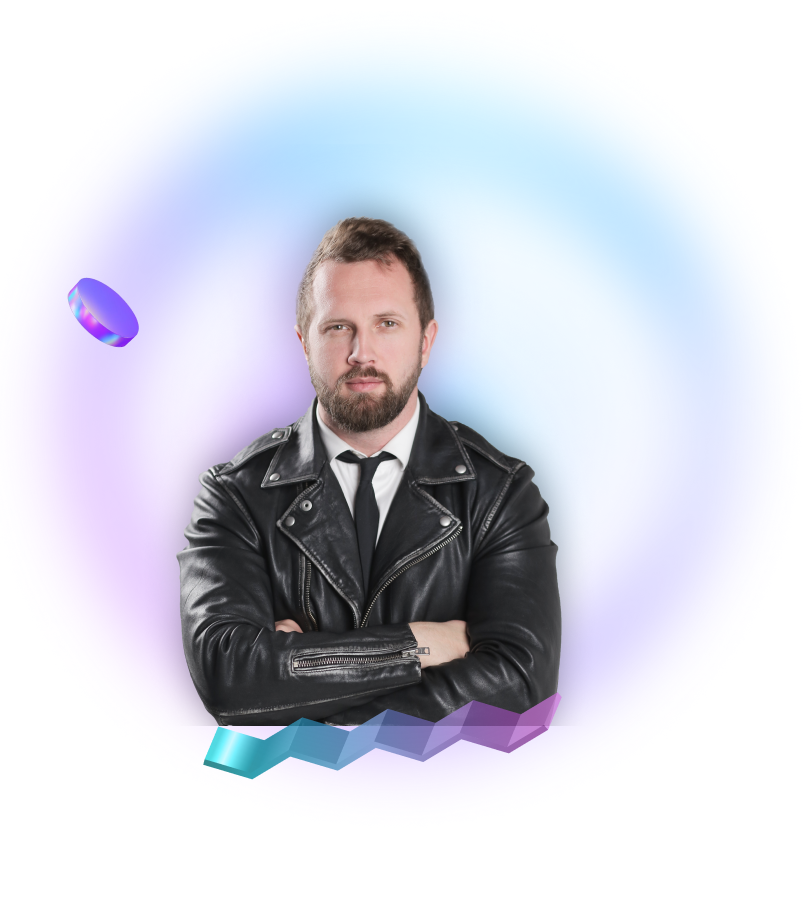
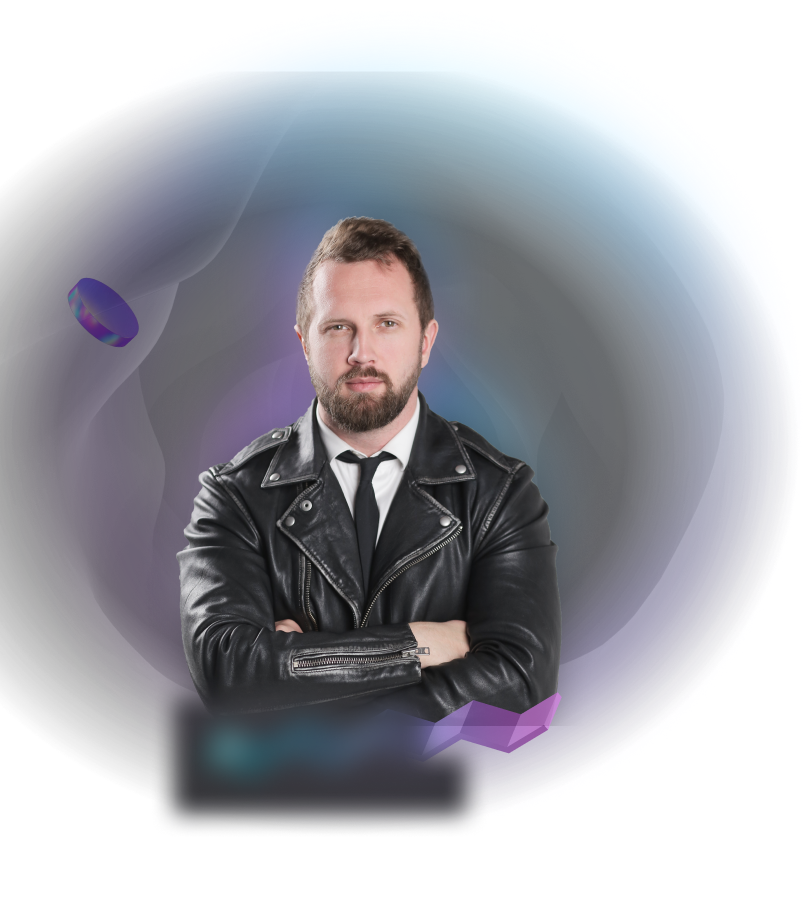
initial

diff --git a/app/src/scss/layout/_founder.scss b/app/src/scss/layout/_founder.scss
@@ -103,6 +103,7 @@
     justify-content: space-between;
     align-items: center;
     width: 100%;
+    z-index: 1;
     &:last-of-type{
       @include media(1200){
         flex-direction: column;
@@ -125,7 +126,6 @@
     &_with-img{
       position: relative;
       left: -100px;
-      background: url('../images/hole-2.webp') 100% 100% / contain no-repeat;
       width: 50%;
       z-index: -3;
       @include media(1200){
@@ -158,8 +158,11 @@
       width: max-content;
       display: flex;
       justify-content: center;
-      margin: -200px auto 0 140px;
+      margin: -172px auto 0 140px;
       position: relative;
+      @include media(1400){
+        margin: -147px auto 0 122px;
+      }
       @include media(1200){
         margin: -200px auto 0 auto;
       }
@@ -177,6 +180,9 @@
         top: 13px;
         width: 24px;
         height: 24px;
+        @include media(1400){
+          top: 6px;
+        }
         @include media($lg){
           top: 8px;
         }
@@ -195,6 +201,9 @@
         bottom: 13px;
         width: 30px;
         height: 22px;
+        @include media(1400){
+          bottom: 6px;
+        }
         @include media($lg){
           bottom: 8px;
         }
@@ -252,18 +261,6 @@
         padding-left: 34px;
         @include media($sm){
           margin-right: 15px;
-        }
-        &::before{
-          content: '';
-          position: absolute;
-          width: 100%;
-          height: 100%;
-          left: 0;
-          background: rgba(64, 64, 70, 0.6);
-          filter: blur(25px);
-          backdrop-filter: blur(13px);
-          border-radius: 6px;
-          z-index: -1;
         }
         &_2{
           color: #4B68FF;

diff --git a/app/src/scss/layout/_header.scss b/app/src/scss/layout/_header.scss
@@ -1,6 +1,7 @@
 .header{
   position: fixed;
   width: 100%;
+  height: 81px;
   top: 0;
   left: 0;
   display: flex;
@@ -11,15 +12,12 @@
   border-bottom: 2px solid transparent;
   border-image-slice: 1;
   z-index: 47;
-  background: rgba(255, 255, 255, 0.8);
-  -webkit-backdrop-filter: blur(4px);
-  -o-backdrop-filter: blur(4px);
-  -moz-backdrop-filter: blur(4px);
-  backdrop-filter: blur(4px);
+  background: rgba(255, 255, 255, 0.4);
+  backdrop-filter: blur(15px);
   @media (hover: hover){
     &:hover{
       background: rgba(0, 0, 0, 0.8);
-      backdrop-filter: blur(4px);
+      backdrop-filter: blur(15px);
       border-image-source: linear-gradient(270deg, #B1FFFF 3.5%, #1E9DFF 24.69%, #CD6BFF 52.78%, #7668FE 84.64%);
       .header__logo-img{
         background: url('../images/logo.webp');
@@ -52,20 +50,21 @@
     justify-content: center;
     align-items: center;
     @include media($xl){
-      flex-direction: column;
       position: fixed;
-      z-index: 50;
       top: 0;
       right: 0;
+      bottom: 0;
       height: 100vh;
-      background: rgba(0, 0, 0, 0.8);
-      backdrop-filter: blur(13px);
+      width: 320px;
+      flex-direction: column;
+      backdrop-filter: blur(15px);
+      background: rgba(0, 0, 0, 0.98);
       border-left: 2px solid;
       border-image-slice: 1;
       border-image-source: linear-gradient(270deg, #B1FFFF 3.5%, #1E9DFF 24.69%, #CD6BFF 52.78%, #7668FE 84.64%);
-      width: 320px;
       transform: translateX(100%);
       transition: 400ms ease;
+      z-index: 50;
       @include media($sm){
         width: 100%;
         border: none;

diff --git a/app/src/scss/layout/_error.scss b/app/src/scss/layout/_error.scss
@@ -1,0 +1,52 @@
+.error{
+  display: none;
+  position: fixed;
+  width: 100%;
+  height: 100%;
+  top: 0;
+  left: 0;
+  justify-content: center;
+  align-items: center;
+  background: #fff;
+  color: #414141;
+  z-index: 100000;
+  &.active{
+    display: flex;
+  }
+  &__body{
+    display: flex;
+    flex-direction: column;
+    align-items: center;
+    justify-content: center;
+  }
+  &__title{
+    // margin-bottom: 50px;
+    font-size: 80px;
+  }
+  &__link{
+    color: #0091ff;
+    font-weight: 700;
+    position: absolute;
+    left: 50%;
+    bottom: 50px;
+    transform: translateX(-50%);
+    &::before{
+      content: '';
+      position: absolute;
+      bottom: -4px;
+      left: 50%;
+      transform: translateX(-50%) scaleX(0);
+      width: 80%;
+      height: 1px;
+      background: #199bff;
+      border-radius: 12px;
+      transition-property: all;
+      transition-duration: 0.5s;
+      transition-delay: 0s;
+      transition-timing-function: cubic-bezier(0.68,-0.55,0.265,1.55);
+    }
+    &:hover::before{
+      transform: translateX(-50%) scaleX(1);
+    }
+  }
+}

diff --git a/app/src/scss/layout/_intro.scss b/app/src/scss/layout/_intro.scss
@@ -1,6 +1,7 @@
 .intro{
   margin-top: 81px;
   position: relative; 
+  z-index: 1;
   &__top{
     position: relative;
     height: 50px;
@@ -14,9 +15,12 @@
     z-index: -3;
     @include media(1500){
       padding-left: 15px;
-      display: none;
+      // display: none;
     }
     @include media(1400){
+      // display: none;
+    }
+    @include media($md){
       display: none;
     }
     &-inner{
@@ -30,7 +34,7 @@
       display: flex;
       align-items: center;
       &__parent{
-        width: 100%;
+        width: 50%;
         display: flex;
         align-items: center;
       }
@@ -215,5 +219,20 @@
     @include media($sm){
       top: -20px;
     }
+  }
+  &__run{
+    animation: run 60s infinite linear;
+    position: absolute;
+    top: 0;
+    left: 0;
+  }
+}
+
+@keyframes run {
+  0%{
+    left: -180%;
+  }
+  100%{
+    left: 100%;
   }
 }

diff --git a/app/src/scss/layout/_ui.scss b/app/src/scss/layout/_ui.scss
@@ -13,7 +13,8 @@ img{
   pointer-events: none;
 }
 body{
-  background: #243742;
+  background: rgb(36,55,66);
+  background: linear-gradient(180deg, rgba(36,55,66,1) 0%, rgba(42,42,42,1) 100%);
   font-family: 'Raleway';
 }
 ::-webkit-scrollbar {
@@ -592,9 +593,9 @@ a{
 
 
 @function multiple-box-shadow ($n) {
-  $value: '#{random(2000)}px #{random(20000)}px #FFF';
+  $value: '#{random(2000)}px #{random(10000)}px #FFF';
   @for $i from 2 through $n {
-    $value: '#{$value} , #{random(2000)}px #{random(2000)}px #FFF';
+    $value: '#{$value} , #{random(2000)}px #{random(12000)}px #FFF';
   }
 
   @return unquote($value);

diff --git a/app/src/scss/layout/_calendar.scss b/app/src/scss/layout/_calendar.scss
@@ -177,10 +177,11 @@
     font-weight: 500;
     font-size: 24px;
     line-height: 180%;
+    font-family: verdana;
     text-align: center;
     letter-spacing: 0.03em;
     color: #FFFFFF;
-    background: rgba(206, 209, 209, 0.25);
+    background: rgba(206, 209, 209, 0.2);
     backdrop-filter: blur(15px);
     z-index: 25;
     @include media($md){

diff --git a/app/src/scss/layout/_footer.scss b/app/src/scss/layout/_footer.scss
@@ -30,6 +30,7 @@
       letter-spacing: 0.03em;
       text-transform: uppercase;
       color: #B1FFFF;
+      font-family: Verdana, Geneva, sans-serif;
       &:last-of-type{
         @include media($sm){
             margin-top: 15px;

diff --git a/app/src/scripts/index.ts b/app/src/scripts/index.ts
@@ -58,3 +58,8 @@ function addActive(el){
 //     }
 //   }
 // }
+
+// let err = document.querySelector('.error');
+// setTimeout(() => {
+//   err.classList.add('active');
+// }, 10000);

diff --git a/app/src/scss/layout/_mission.scss b/app/src/scss/layout/_mission.scss
@@ -2,6 +2,7 @@
   position: relative;
   padding-top: 200px;
   margin-top: -100px;
+  z-index: 1;
   @include media($xl){
     padding-top: 100px;
   }
